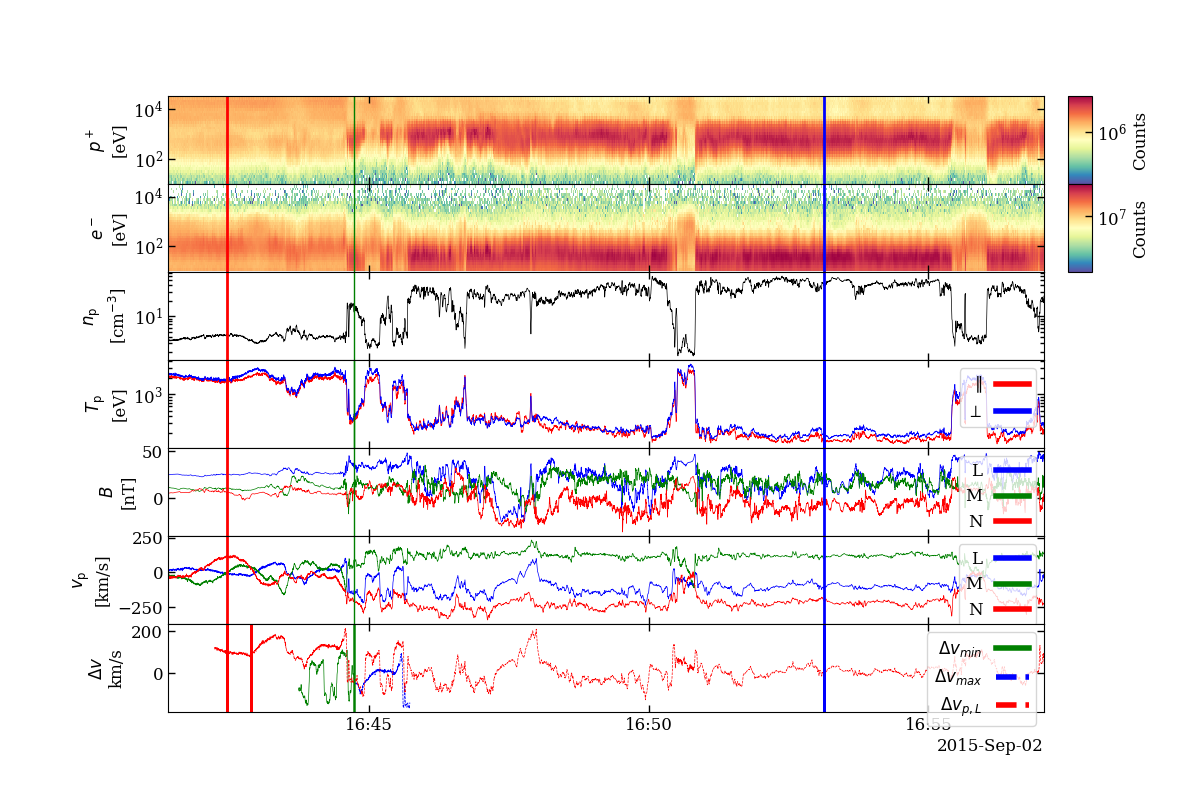
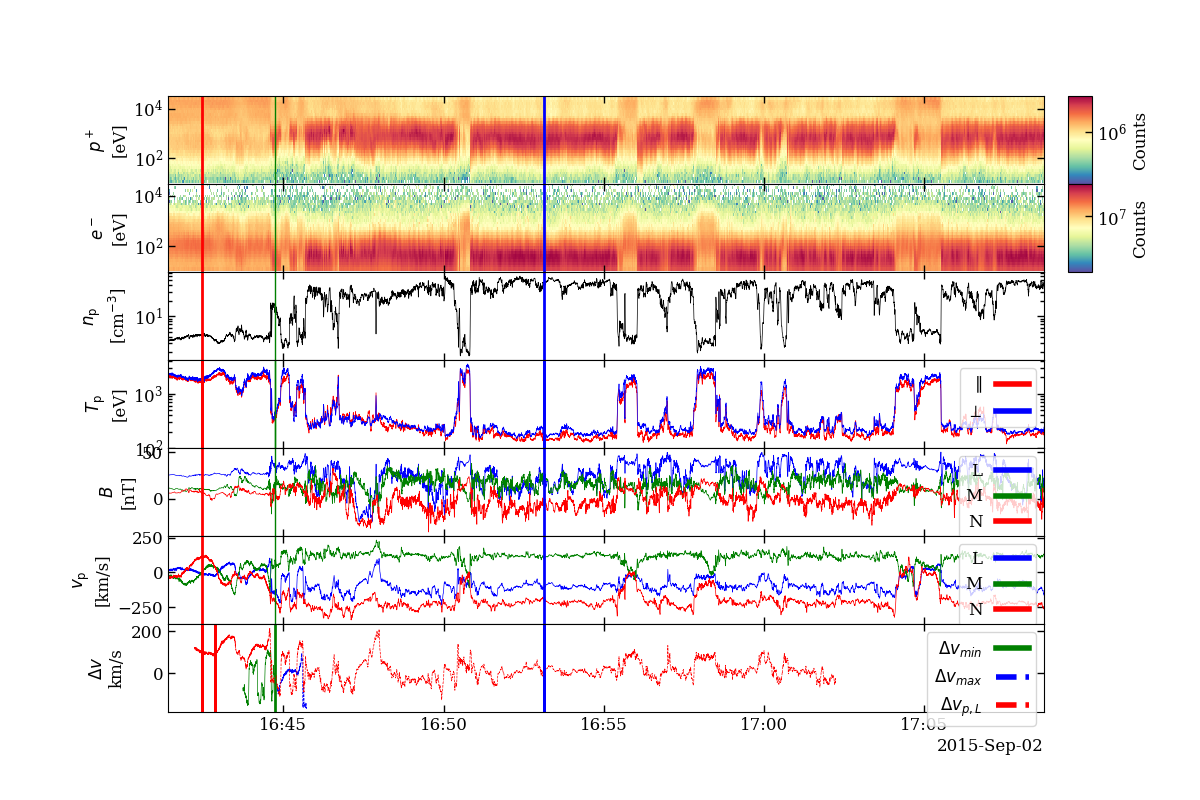
modified:   jet_reversal_quick_check_function_beta.py 	modified:   jet_reversal_quick_check_parallel_beta.py 	modified:   ../data/mms_jet_reversal_times_list_20230213_beta_brst.csv 	new file:   ../figures/jet_reversal_checks/check_20230213/brst/jet/mms3_20150902_1647_00020_45s_2.0rw_47th.png 	modifi

diff --git a/codes/jet_reversal_quick_check_parallel_beta.py b/codes/jet_reversal_quick_check_parallel_beta.py
@@ -38,7 +38,7 @@ def check_jet_reversal(crossing_time):
     crossing_time = crossing_time.replace(tzinfo=pytz.utc)
     # Try with 'brst' data rate, if that fails then try with 'fast'
     inputs = {'crossing_time': crossing_time,
-              'dt': 500,
+              'dt': 600,
               'probe': 3,
               'jet_len': 3,
               'level': 'l2',
@@ -55,34 +55,35 @@ def check_jet_reversal(crossing_time):
               }
     # inputs["data_rate"] = 'fast'
     # # ptt, df_mms, ind_range_msp, ind_range_msh, t_jet_center = jrcfb.jet_reversal_check(**inputs)
-    # _ =  jrcfb.jet_reversal_check(**inputs)
+    inputs["data_rate"] = 'brst'
+    _ =  jrcfb.jet_reversal_check(**inputs)
     # v1, v2, ind_walen = jrcfb.jet_reversal_check(**inputs)
-    try:
-        try:
-            inputs["data_rate"] = 'brst'
-            _ = jrcfb.jet_reversal_check(**inputs)
-        except Exception:
-            # inputs["data_rate"] = 'fast'
-            # _ = jrcfb.jet_reversal_check(**inputs)
-            pass
-    except Exception as e:
-        # print(f"\033[91;31m\n{e} for date {crossing_time}\n\033[0m")
-        # Save the crossing time to a file
-        # Check if the file exists
-        if not os.path.isfile(inputs["error_file_log_name"]):
-            # If it doesn't exist, create it
-            with open(inputs["error_file_log_name"], 'w') as f:
-                f.write("DateStart,Error\n")
-                f.write(f"{crossing_time},{e}\n")
-        else:
-            # If it exists, append to it
-            df_added_list = pd.read_csv(inputs["error_file_log_name"], sep=',', index_col=False)
-            if not np.any(df_added_list['DateStart'].values == str(crossing_time)):
-                with open(inputs["error_file_log_name"], 'a') as f:
-                    f.write(f"{crossing_time},{e}\n")
-                f.close()
-        pass
-    #return ptt, df_mms, ind_range_msp, ind_range_msh, t_jet_center
+    # try:
+    #     try:
+    #         inputs["data_rate"] = 'brst'
+    #         _ = jrcfb.jet_reversal_check(**inputs)
+    #     except Exception:
+    #         # inputs["data_rate"] = 'fast'
+    #         # _ = jrcfb.jet_reversal_check(**inputs)
+    #         pass
+    # except Exception as e:
+    #     # print(f"\033[91;31m\n{e} for date {crossing_time}\n\033[0m")
+    #     # Save the crossing time to a file
+    #     # Check if the file exists
+    #     if not os.path.isfile(inputs["error_file_log_name"]):
+    #         # If it doesn't exist, create it
+    #         with open(inputs["error_file_log_name"], 'w') as f:
+    #             f.write("DateStart,Error\n")
+    #             f.write(f"{crossing_time},{e}\n")
+    #     else:
+    #         # If it exists, append to it
+    #         df_added_list = pd.read_csv(inputs["error_file_log_name"], sep=',', index_col=False)
+    #         if not np.any(df_added_list['DateStart'].values == str(crossing_time)):
+    #             with open(inputs["error_file_log_name"], 'a') as f:
+    #                 f.write(f"{crossing_time},{e}\n")
+    #             f.close()
+    #     pass
+    # #return ptt, df_mms, ind_range_msp, ind_range_msh, t_jet_center
     return None
 
 
@@ -143,7 +144,9 @@ for foo in range(1):
         # Ask the user for the maximum index number
         # indx_max = int(input("Enter the maximum index number: "))
         indx_max = indx_min + 1
-        for xx, crossing_time in enumerate(df_crossings.index[indx_min:indx_max],
+        # for xx, crossing_time in enumerate(df_crossings.index[indx_min:indx_max],
+        #                                    start=indx_min):
+        for xx, crossing_time in enumerate(['2015-09-02 16:55:33.000'],
                                            start=indx_min):
 
             check_jet_reversal(crossing_time)

diff --git a/codes/jet_reversal_quick_check_function_beta.py b/codes/jet_reversal_quick_check_function_beta.py
@@ -96,7 +96,8 @@ def jet_reversal_check(crossing_time=None, dt=90, probe=3, data_rate='fast', lev
     #                                index_col=False)
     # df_crossing_temp.set_index("jet_time", inplace=True)
     # crossing_time_str = crossing_time.strftime("%Y-%m-%d %H:%M:%S")
-    ind_crossing = np.where(df_crossing_temp.index == crossing_time_str)[0][0]
+    # ind_crossing = np.where(df_crossing_temp.index == crossing_time_str)[0][0]
+    ind_crossing = 20
 
     # Get the data from the FPI
     mms_fpi_varnames = [f'mms{probe}_dis_numberdensity_{data_rate}',
